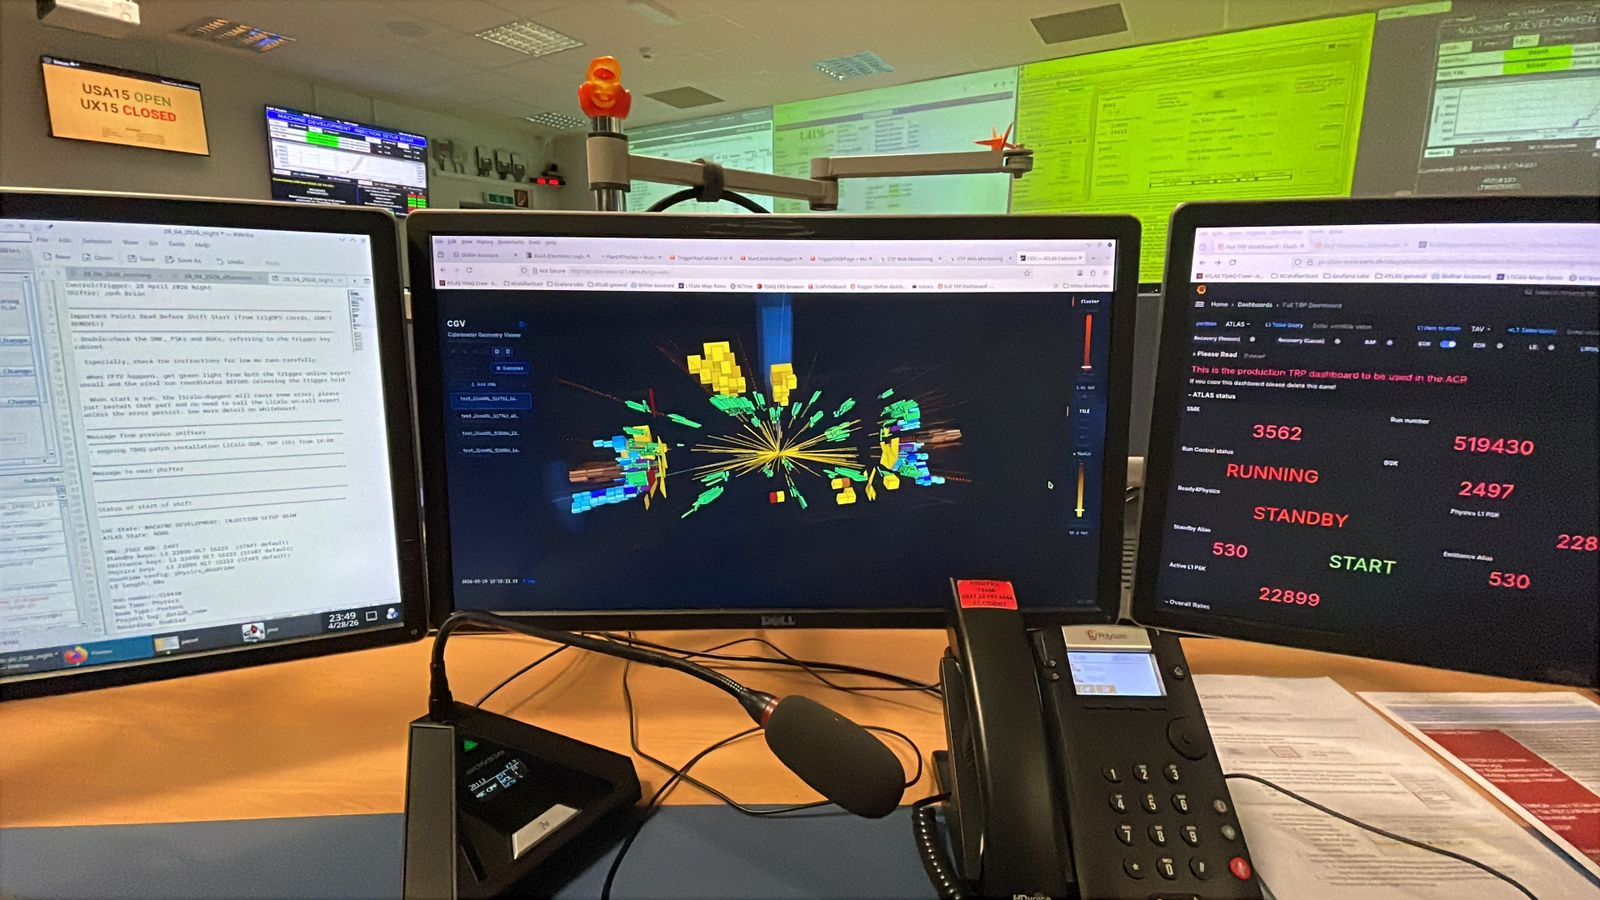
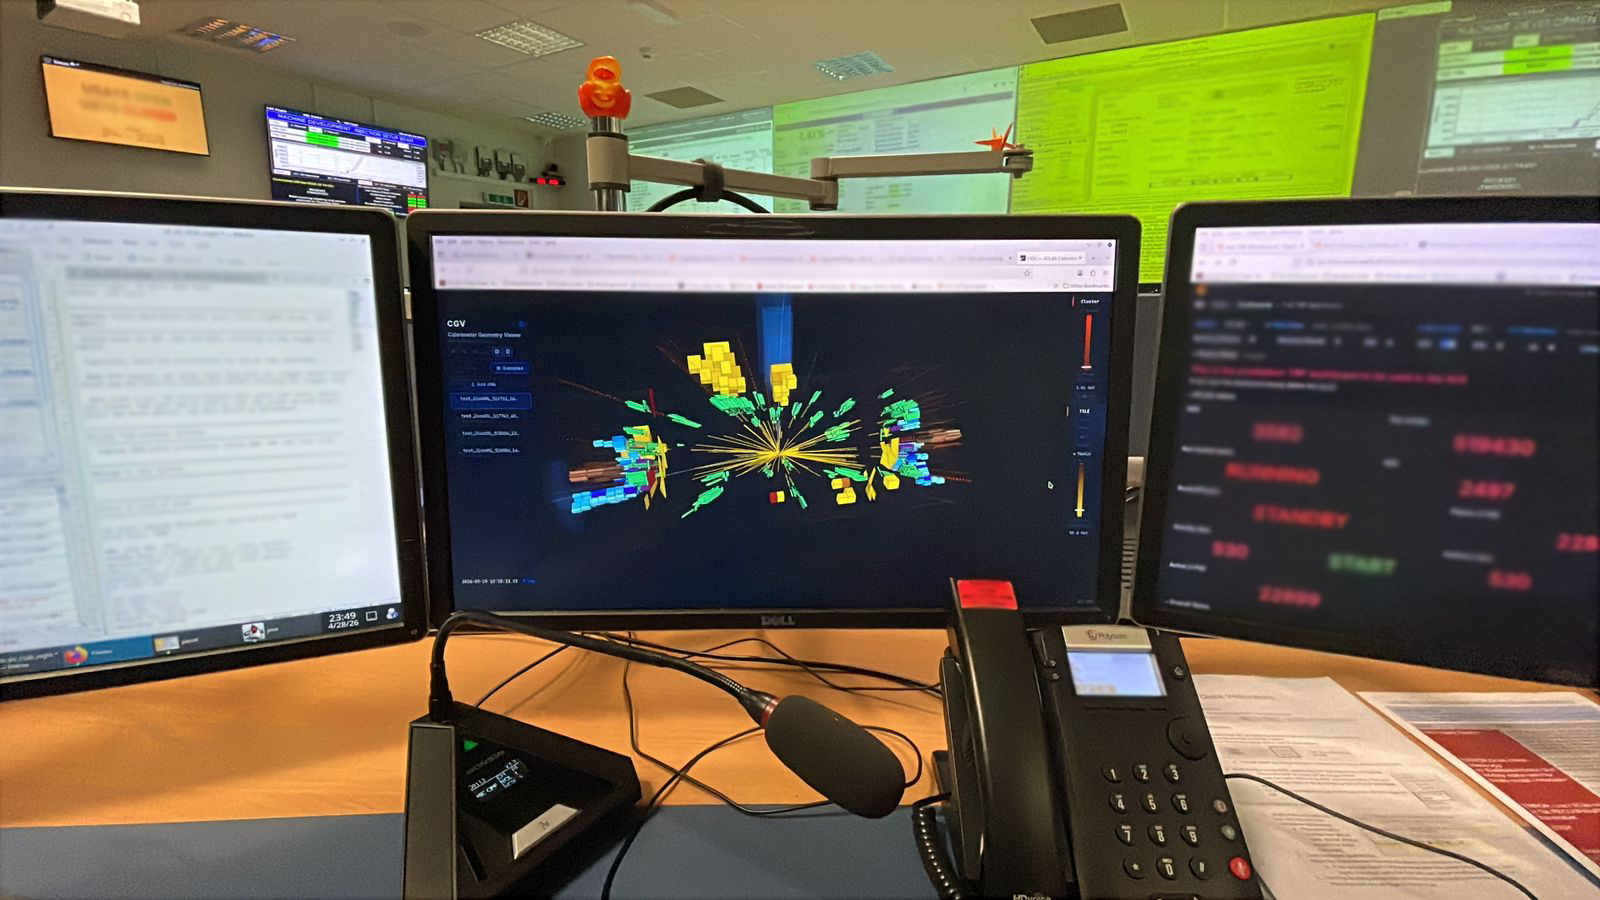
Use SVG flag assets across language UI

diff --git a/assets/js/main.js b/assets/js/main.js
@@ -27,29 +27,26 @@ const NAV_LINKS = [
  */
 const ROOT = new URL('../../', import.meta.url).href;
 
-export const FLAG_SVGS = {
-  en: `<svg xmlns="http://www.w3.org/2000/svg" viewBox="0 0 60 30">
-<defs>
-<clipPath id="uk-outer"><path d="M0,0 v30 h60 v-30 z"/></clipPath>
-<clipPath id="uk-inner"><path d="M30,15 h30 v15 z v15 h-30 z h-30 v-15 z v-15 h30 z"/></clipPath>
-</defs>
-<g clip-path="url(#uk-outer)">
-<path d="M0,0 v30 h60 v-30 z" fill="#012169"/>
-<path d="M0,0 L60,30 M60,0 L0,30" stroke="#fff" stroke-width="6"/>
-<path d="M0,0 L60,30 M60,0 L0,30" clip-path="url(#uk-inner)" stroke="#C8102E" stroke-width="4"/>
-<path d="M30,0 v30 M0,15 h60" stroke="#fff" stroke-width="10"/>
-<path d="M30,0 v30 M0,15 h60" stroke="#C8102E" stroke-width="6"/>
-</g>
-</svg>`,
-  pt: `<svg width="1000" height="700" viewBox="-2100 -1470 4200 2940" xmlns="http://www.w3.org/2000/svg" xmlns:xlink="http://www.w3.org/1999/xlink"><defs><g id="G"><clipPath id="g"><path d="m-31.5 0v-70h63v70zm31.5-47v12h31.5v-12z"/></clipPath><use clip-path="url(#g)" xlink:href="#O"/><path d="M5-35H31.5V-25H5z"/><path d="m21.5-35h10v35h-10z"/></g><g id="R"><use xlink:href="#P"/><path d="m28 0c0-10 0-32-15-32h-19c22 0 22 22 22 32"/></g><g id="s" fill="#fff"><g id="c"><path id="t" transform="rotate(18,0,-1)" d="m0-1v1h0.5"/><use transform="scale(-1,1)" xlink:href="#t"/></g><use transform="rotate(72)" xlink:href="#c"/><use transform="rotate(-72)" xlink:href="#c"/><use transform="rotate(144)" xlink:href="#c"/><use transform="rotate(216)" xlink:href="#c"/></g><g id="a"><use transform="scale(31.5)" xlink:href="#s"/></g><g id="b"><use transform="scale(26.25)" xlink:href="#s"/></g><g id="f"><use transform="scale(21)" xlink:href="#s"/></g><g id="h"><use transform="scale(15)" xlink:href="#s"/></g><g id="i"><use transform="scale(10.5)" xlink:href="#s"/></g><path id="D" d="m-31.5 0h33a30 30 0 0 0 30-30v-10a30 30 0 0 0-30-30h-33zm13-13h19a19 19 0 0 0 19-19v-6a19 19 0 0 0-19-19h-19z" fill-rule="evenodd"/><path id="E" transform="translate(-31.5)" d="m0 0h63v-13h-51v-18h40v-12h-40v-14h48v-13h-60z"/><path id="e" d="m-26.25 0h52.5v-12h-40.5v-16h33v-12h-33v-11h39.25v-12h-51.25z"/><path id="M" d="m-31.5 0h12v-48l14 48h11l14-48v48h12v-70h-17.5l-14 48-14-48h-17.5z"/><path id="O" d="m0 0a31.5 35 0 0 0 0-70 31.5 35 0 0 0 0 70m0-13a18.5 22 0 0 0 0-44 18.5 22 0 0 0 0 44" fill-rule="evenodd"/><path id="P" d="m-31.5 0h13v-26h28a22 22 0 0 0 0-44h-40zm13-39h27a9 9 0 0 0 0-18h-27z" fill-rule="evenodd"/><path id="S" d="m-15.75-22c0 7 6.75 10.5 16.75 10.5s14.74-3.25 14.75-7.75c0-14.25-46.75-5.25-46.5-30.25 0.25-21.5 24.75-20.5 33.75-20.5s26 4 25.75 21.25h-15.25c0-7.5-7-10.25-15-10.25-7.75 0-13.25 1.25-13.25 8.5-0.25 11.75 46.25 4 46.25 28.75 0 18.25-18 21.75-31.5 21.75-11.5 0-31.55-4.5-31.5-22z"/></defs><clipPath id="B"><circle r="735"/></clipPath><path d="m-2100-1470h4200v2940h-4200z" fill="#009440"/><path d="M -1743,0 0,1113 1743,0 0,-1113 Z" fill="#ffcb00"/><circle r="735" fill="#302681"/><path d="m-2205 1470a1785 1785 0 0 1 3570 0h-105a1680 1680 0 1 0-3360 0z" clip-path="url(#B)" fill="#fff"/><g transform="translate(-420,1470)" fill="#009440"><use transform="rotate(-7)" y="-1697.5" xlink:href="#O"/><use transform="rotate(-4)" y="-1697.5" xlink:href="#R"/><use transform="rotate(-1)" y="-1697.5" xlink:href="#D"/><use transform="rotate(2)" y="-1697.5" xlink:href="#E"/><use transform="rotate(5)" y="-1697.5" xlink:href="#M"/><use transform="rotate(9.75)" y="-1697.5" xlink:href="#e"/><use transform="rotate(14.5)" y="-1697.5" xlink:href="#P"/><use transform="rotate(17.5)" y="-1697.5" xlink:href="#R"/><use transform="rotate(20.5)" y="-1697.5" xlink:href="#O"/><use transform="rotate(23.5)" y="-1697.5" xlink:href="#G"/><use transform="rotate(26.5)" y="-1697.5" xlink:href="#R"/><use transform="rotate(29.5)" y="-1697.5" xlink:href="#E"/><use transform="rotate(32.5)" y="-1697.5" xlink:href="#S"/><use transform="rotate(35.5)" y="-1697.5" xlink:href="#S"/><use transform="rotate(38.5)" y="-1697.5" xlink:href="#O"/></g><use x="-600" y="-132" xlink:href="#a"/><use x="-535" y="177" xlink:href="#a"/><use x="-625" y="243" xlink:href="#b"/><use x="-463" y="132" xlink:href="#h"/><use x="-382" y="250" xlink:href="#b"/><use x="-404" y="323" xlink:href="#f"/><use x="228" y="-228" xlink:href="#a"/><use x="515" y="258" xlink:href="#a"/><use x="617" y="265" xlink:href="#f"/><use x="545" y="323" xlink:href="#b"/><use x="368" y="477" xlink:href="#b"/><use x="367" y="551" xlink:href="#f"/><use x="441" y="419" xlink:href="#f"/><use x="500" y="382" xlink:href="#b"/><use x="365" y="405" xlink:href="#f"/><use x="-280" y="30" xlink:href="#b"/><use x="200" y="-37" xlink:href="#f"/><use y="330" xlink:href="#a"/><use x="85" y="184" xlink:href="#b"/><use y="118" xlink:href="#b"/><use x="-74" y="184" xlink:href="#f"/><use x="-37" y="235" xlink:href="#h"/><use x="220" y="495" xlink:href="#b"/><use x="283" y="430" xlink:href="#f"/><use x="162" y="412" xlink:href="#f"/><use x="-295" y="390" xlink:href="#a"/><use y="575" xlink:href="#i"/></svg>`,
-  fr: `<svg xmlns="http://www.w3.org/2000/svg" viewBox="0 0 900 600"><rect width="300" height="600" fill="#002395"/><rect x="300" width="300" height="600" fill="#fff"/><rect x="600" width="300" height="600" fill="#ED2939"/></svg>`,
-  no: `<svg xmlns="http://www.w3.org/2000/svg" version="1.1" viewBox="0 0 22 16">
-	<title>Flag of Norway</title>
-	<rect width="22" height="16" fill="#ba0c2f"/>
-	<path d="M0,8h22M8,0v16" stroke="#fff" stroke-width="4"/>
-	<path d="M0,8h22M8,0v16" stroke="#00205b" stroke-width="2"/>
-</svg>`,
+const FLAG_PATHS = {
+  en: 'assets/icons/flag-for-united-kingdom.svg',
+  pt: 'assets/icons/flag-for-brazil.svg',
+  fr: 'assets/icons/flag-for-france.svg',
+  no: 'assets/icons/flag-for-norway.svg',
 };
+
+export const LANG_NAMES = { pt: 'Português', en: 'English', fr: 'Français', no: 'Norsk' };
+
+function flagImg(lang) {
+  const src = FLAG_PATHS[lang];
+  const name = LANG_NAMES[lang] || lang;
+  return src
+    ? `<img class="flag" src="${ROOT}${src}" alt="" loading="lazy" decoding="async" aria-hidden="true" title="${name}">`
+    : '';
+}
+
+export const FLAG_SVGS = Object.fromEntries(
+  Object.keys(FLAG_PATHS).map(lang => [lang, flagImg(lang)])
+);
 
 const atomIcon = `<span class="nav-logo-atom" aria-hidden="true"></span>`;
 
@@ -316,7 +313,6 @@ const LANG_WORDS = {
   no: ['og','av','som','er','til','på','med','det','ikke','denne','et','for','har','ble','blir','disse'],
 };
 const LANG_DIA = { pt: ['ã','õ'], fr: ['ê','è','ù','œ'], no: ['ø','å'] };
-export const LANG_NAMES = { pt: 'Português', en: 'English', fr: 'Français', no: 'Norsk' };
 
 /** Detect the language of a publication from its title + abstract. */
 export function detectLang(title, abstract) {

diff --git a/assets/css/main.css b/assets/css/main.css
@@ -500,8 +500,13 @@ h1, h2, h3, h4, h5, h6 {
   object-fit: cover;
 }
 
-/* Flag SVGs inline */
-.flag { width: 100%; height: 100%; }
+/* Shared flag assets */
+.flag {
+  width: 100%;
+  height: 100%;
+  display: block;
+  object-fit: cover;
+}
 
 /* Mobile hamburger */
 .nav-hamburger {
@@ -942,7 +947,7 @@ h1, h2, h3, h4, h5, h6 {
   box-shadow: 0 0 0 1px var(--border-mid);
   flex: none;
 }
-.pub-lang-flag svg { height: 14px; width: auto; display: block; }
+.pub-lang-flag img { height: 14px; width: 20px; display: block; object-fit: cover; }
 
 /* "Content language" badge — marks pages whose body text is left untranslated
    (e.g. detailed English content). Populated by initContentLangBadges(). */
@@ -961,7 +966,7 @@ h1, h2, h3, h4, h5, h6 {
 }
 .content-lang-badge:empty { display: none; }
 .content-lang-badge .clang-flag { display: inline-flex; line-height: 0; border-radius: 2px; overflow: hidden; box-shadow: 0 0 0 1px var(--border-mid); }
-.content-lang-badge .clang-flag svg { height: 12px; width: auto; display: block; }
+.content-lang-badge .clang-flag img { height: 12px; width: 17px; display: block; object-fit: cover; }
 .pub-title { font-size: var(--text-lg); font-weight: 600; color: var(--text-primary); line-height: 1.4; margin-bottom: var(--sp-3); }
 .pub-authors { font-size: var(--text-sm); color: var(--text-muted); margin-bottom: var(--sp-2); }
 .pub-authors span { font-weight: 600; color: var(--text-secondary); }
